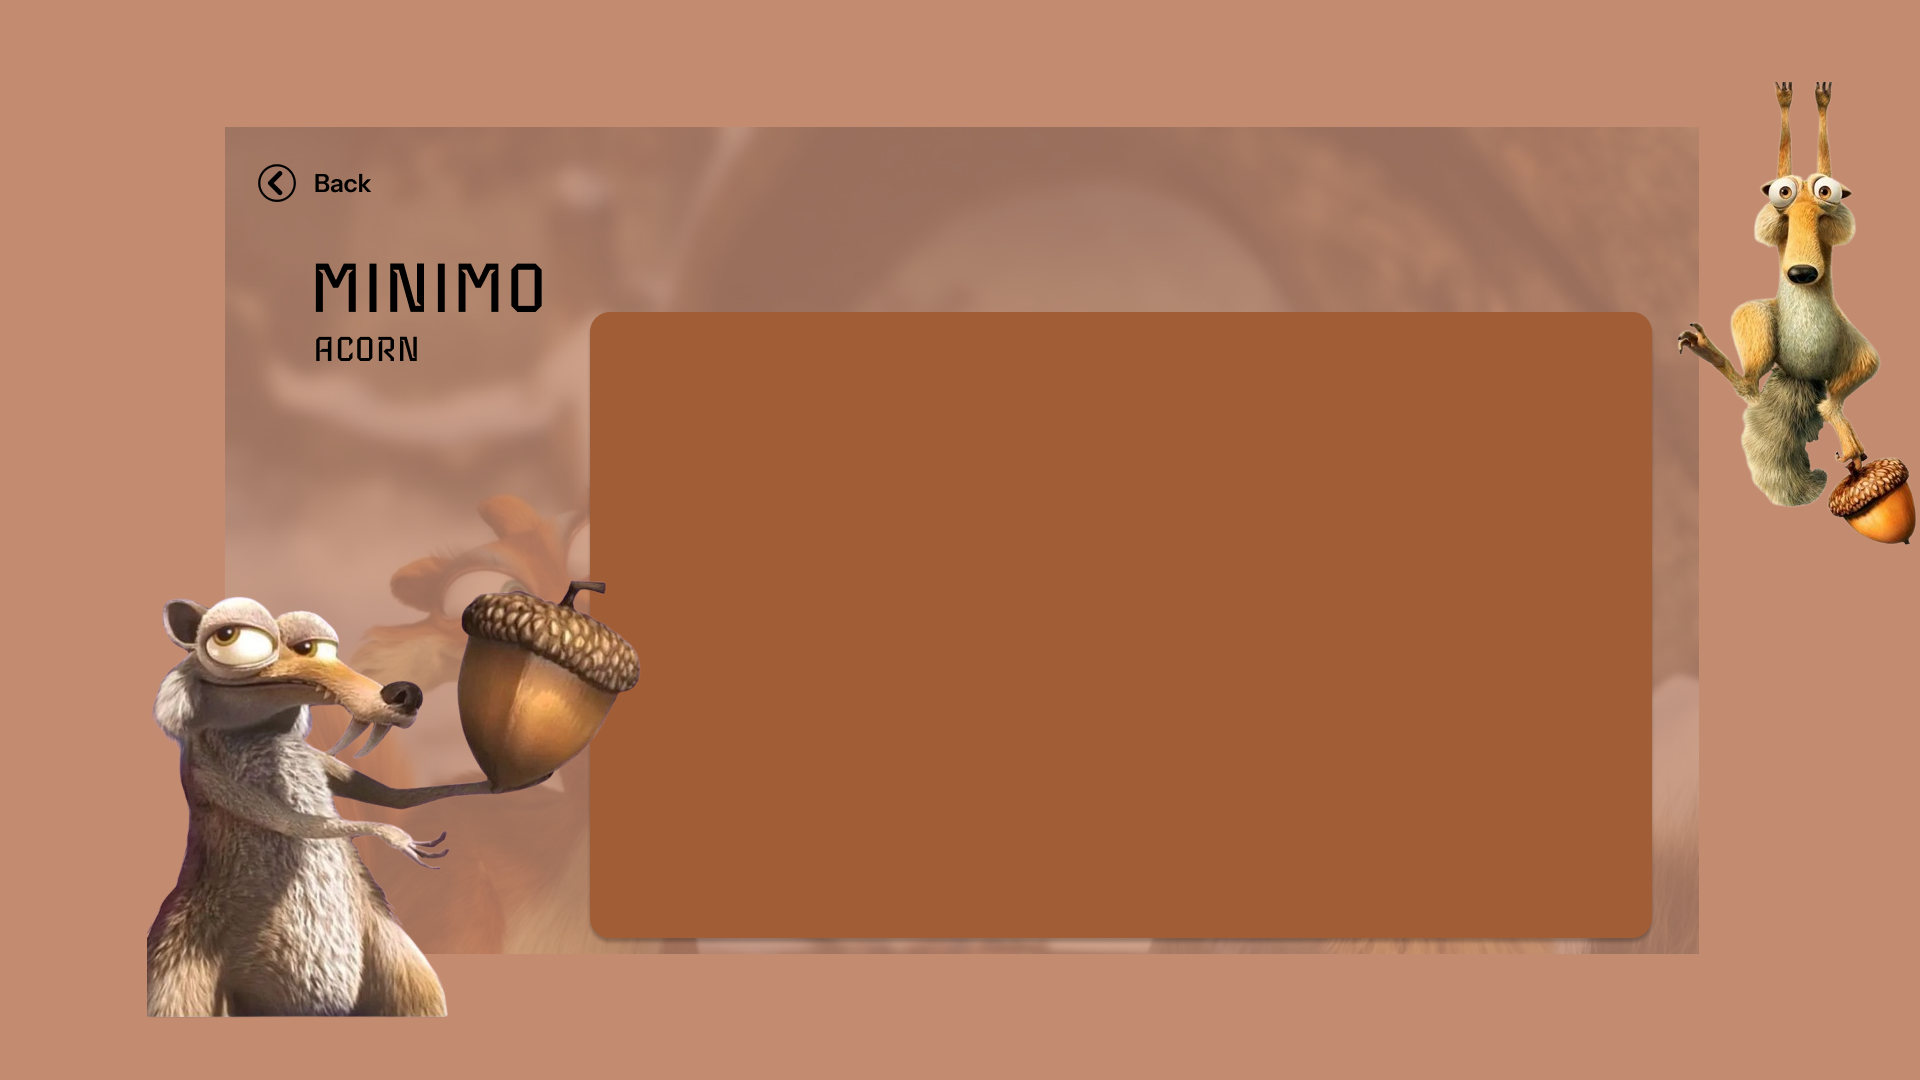
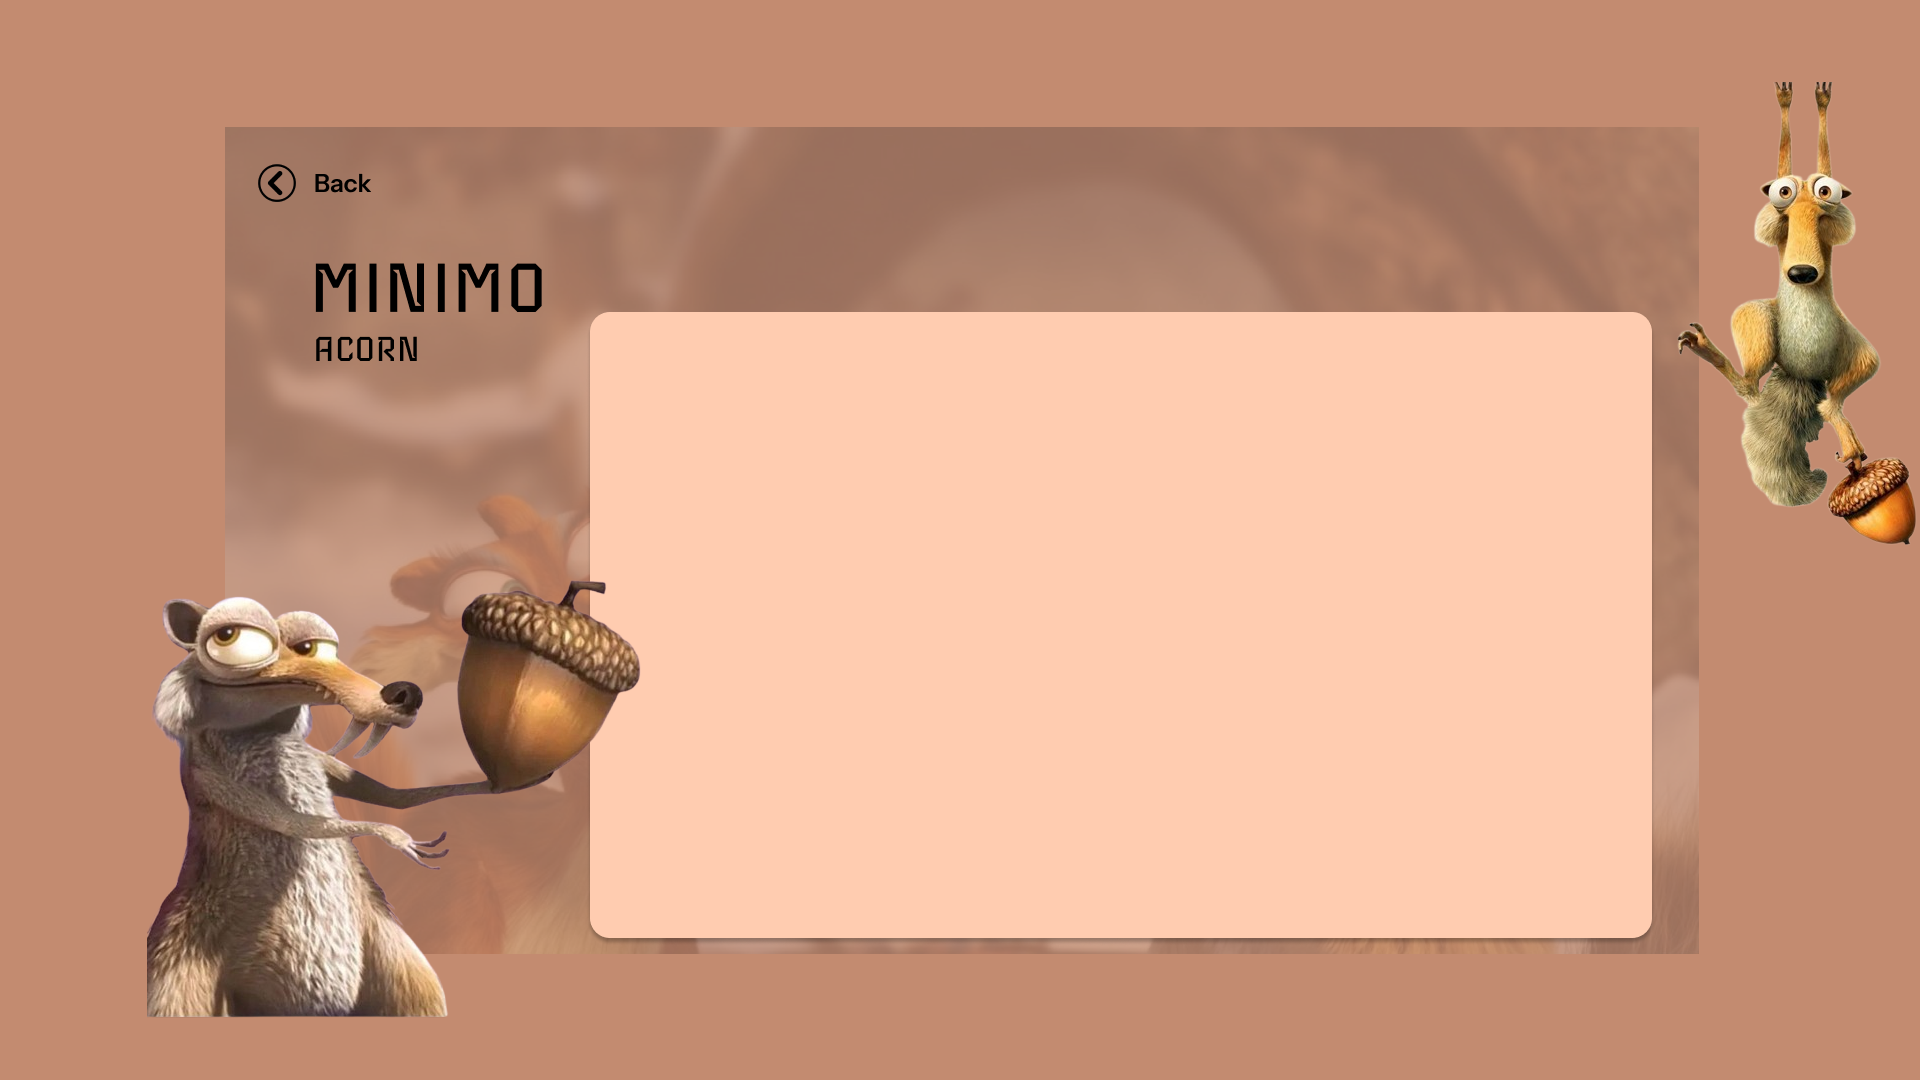
some UI changes

diff --git a/backend/server.js b/backend/server.js
@@ -13,6 +13,8 @@ const axios = require("axios");
 const app = express();
 app.use(cors());
 app.use(express.json());
+app.use(express.urlencoded({ extended: true }));
+app.use('/uploads', express.static('uploads'));
 
 //////base URL for banana API//////
 const MINIMO_API = "http://marcconrad.com/uob/";
@@ -55,29 +57,44 @@ const upload = multer({ storage });
 //////Register API//////
 
 app.post("/api/register", upload.single("avatar"), async (req, res) => {
-  console.log("REQ.BODY:", req.body);
-  console.log("REQ.FILE:", req.file);
+    const { username, password } = req.body;
+    const avatar = req.file ? req.file.filename : null;
 
-  const { username, password } = req.body;
+    await db.query(
+        "INSERT INTO users (username, password, avatar) VALUES (?, ?, ?)",
+        [username, password, avatar]
+    );
 
-  if (!req.file) {
-    return res.status(400).json({ error: "Avatar image required" });
-  }
-
-  const avatarPath = "/uploads/" + req.file.filename;
-
-  try {
-    const hashedPassword = await bcrypt.hash(password, 10);
-
-    const sql = "INSERT INTO users (username, password_hash, avatar) VALUES (?, ?, ?)";
-    await db.execute(sql, [username, hashedPassword, avatarPath]);
-
-    res.status(200).json({ message: "Registration successful" });
-  } catch (err) {
-    console.log("DB ERROR:", err);
-    res.status(500).json({ error: err.message }); // show real error
-  }
+    res.json({ message: "User registered", avatar });
 });
+
+
+// app.post("/api/register", upload.single("avatar"), async (req, res) => {
+//   console.log("REQ.BODY:", req.body);
+//   console.log("REQ.FILE:", req.file);
+
+//   const { username, password } = req.body;
+
+//   if (!req.file) {
+//     return res.status(400).json({ error: "Avatar image required" });
+//   }
+
+//   const avatarPath = "/uploads/" + req.file.filename;
+
+//   try {
+//     const hashedPassword = await bcrypt.hash(password, 10);
+
+//     const sql = "INSERT INTO users (username, password_hash, avatar) VALUES (?, ?, ?)";
+//     await db.execute(sql, [username, hashedPassword, avatarPath]);
+
+//     res.status(200).json({ message: "Registration successful" });
+//   } catch (err) {
+//     console.log("DB ERROR:", err);
+//     res.status(500).json({ error: err.message }); // show real error
+//   }
+// });
+
+
 
 // app.post("/api/register", async (req, res) => {
 //   const { username, password } = req.body;
@@ -98,23 +115,59 @@ app.post("/api/register", upload.single("avatar"), async (req, res) => {
 // });
 
 
-//////Login API//////
+//////Login API (Fixed)//////
 app.post("/api/login", (req, res) => {
-
   const { username, password } = req.body;
-  
+
   db.query("SELECT * FROM users WHERE username = ?", [username], async (err, results) => {
-    if (err || results.length === 0) return res.status(400).json({ error: "Invalid username" });
+    if (err || results.length === 0)
+      return res.status(400).json({ error: "Invalid username" });
 
     const user = results[0];
     const match = await bcrypt.compare(password, user.password_hash);
+    if (!match)
+      return res.status(400).json({ error: "Incorrect password" });
 
-    if (!match) return res.status(400).json({ error: "Incorrect password" });
+    // Use correct column name: avatar
+    // The DB already contains "/uploads/filename.png"
+    const avatarPath = user.avatar; 
 
-    res.json({ message: "Login successful" });
+    // Build full accessible URL
+    const profilePicUrl = avatarPath
+      ? `http://localhost:3000${avatarPath}`
+      : null;
+
+    res.json({
+      message: "Login successful",
+      user: {
+        id: user.id,
+        username: user.username,
+        profilePic: profilePicUrl
+      }
+    });
   });
-
 });
+
+
+
+
+//////Login API//////
+// app.post("/api/login", (req, res) => {
+
+//   const { username, password } = req.body;
+  
+//   db.query("SELECT * FROM users WHERE username = ?", [username], async (err, results) => {
+//     if (err || results.length === 0) return res.status(400).json({ error: "Invalid username" });
+
+//     const user = results[0];
+//     const match = await bcrypt.compare(password, user.password_hash);
+
+//     if (!match) return res.status(400).json({ error: "Incorrect password" });
+
+//     res.json({ message: "Login successful" });
+//   });
+
+// });
 
 // app.get("/api/banana", async (req, res) => {
   

diff --git a/frontend/index.html b/frontend/index.html
@@ -115,7 +115,7 @@
         <button id="btnBackTh1" class="btn btnBackInTh">Back</button>
         <!-- <button id="btnTimeTh1" class="btn" style="display: none;">Time</button> -->
 
-        <img id="bananaImg" src=""/>
+        <!-- <img id="bananaImg" src=""/> -->
         <div id="bananaLoader" class="loader"></div>
         <!-- <div id="ansDiv">
           <span id="ansTopic">Answer :</span>
@@ -123,9 +123,9 @@
           <span id="result">Find Banana!</span>
           <button id="playAgain" style="display: none;">Play Again?</button>
         </div> -->
-        <div id="ansDiv">
-          <span id="ansTopic">Answer :</span>
-          <div id="divAnsBtn">
+        <div id="ansDiv1" class="ansDiv">
+          <span id="ansTopic1" class="ansTopic">Answer :</span>
+          <div id="divAnsBtn1" class="divAnsBtn">
             <button id="ans0" class="ansBtn">0</button>
             <button id="ans1" class="ansBtn">1</button>
             <button id="ans2" class="ansBtn">2</button>
@@ -137,14 +137,32 @@
             <button id="ans8" class="ansBtn">8</button>
             <button id="ans9" class="ansBtn">9</button>
           </div>
-          <span id="result">Find Banana!</span>
-          <button id="playAgain" style="display: none;">Play Again?</button>
+          <span id="result1" class="result">Find Banana!</span>
+          <button id="playAgain1" style="display: none;" class="playAgain">Play Again?</button>
         </div>
     </div>
 
     <div id="themePage2" class="screen" style="display: none;">
         <button id="btnBackTh2" class="btn btnBackInTh">Back</button>
-        <!-- <button id="btnTimeTh2" class="btn">Time</button> -->
+
+        <div id="bananaLoader" class="loader"></div>
+        <div id="ansDiv2" class="ansDiv">
+          <span id="ansTopic2" class="ansTopic">Answer :</span>
+          <div id="divAnsBtn2" class="divAnsBtn">
+            <button id="ans02" class="ansBtn">0</button>
+            <button id="ans12" class="ansBtn">1</button>
+            <button id="ans22" class="ansBtn">2</button>
+            <button id="ans32" class="ansBtn">3</button>
+            <button id="ans42" class="ansBtn">4</button>
+            <button id="ans52" class="ansBtn">5</button>
+            <button id="ans62" class="ansBtn">6</button>
+            <button id="ans72" class="ansBtn">7</button>
+            <button id="ans82" class="ansBtn">8</button>
+            <button id="ans92" class="ansBtn">9</button>
+          </div>
+          <span id="result2" class="result">Find Banana!</span>
+          <button id="playAgain2" style="display: none;" class="playAgain">Play Again?</button>
+        </div>
     </div>
 
     <div id="themePage3" class="screen" style="display: none;">

diff --git a/frontend/assets/css/style.css b/frontend/assets/css/style.css
@@ -713,7 +713,7 @@ p {
 
 /* ////////////////////////////////////////// */
 
-#ansDiv{
+.ansDiv{
   background-color: #F8DD5A;
   width: 45%;
   height: 10%;
@@ -727,7 +727,7 @@ p {
   align-items: center;
 }
 
-#bananaInput{
+.bananaInput{
   width: 10%;
   height: 50%;
   position: absolute;
@@ -738,14 +738,14 @@ p {
   color: #d2c700;
 }
 
-#ansTopic{
+.ansTopic{
   position: absolute;
   top: 28%;
   left: 5%;
   font-size: 1.5vw;
 }
 
-#result{
+.result{
   position: absolute;
   top: 30%;
   left: 71%;
@@ -758,7 +758,7 @@ p {
   height: 100vh;
 }
 
-#playAgain{
+.playAgain{
   background-color: #fff700;
   position: absolute;
   left: 87%;
@@ -770,13 +770,13 @@ p {
   font-size: 1vw;
 }
 
-#playAgain:hover{
+.playAgain:hover{
   background-color: #fff700;
   transform: scale(1.05);
   box-shadow: 0 0 10px rgba(255,255,255,0.9);
 }
 
-#divAnsBtn button{
+.divAnsBtn button{
   position: relative;
   width: 27px;
   height: 27px;
@@ -788,9 +788,18 @@ p {
 box-shadow: rgba(60, 64, 67, 0.3) 0px 1px 2px 0px, rgba(60, 64, 67, 0.15) 0px 2px 6px 2px;
 }
 
-#divAnsBtn button:hover{
+.divAnsBtn button:hover{
 box-shadow: rgba(0, 0, 0, 0.25) 0px 14px 28px, rgba(0, 0, 0, 0.22) 0px 10px 10px;
 }
+
+#ansDiv2{
+  background-color: #FF8700;
+}
+
+#divAnsBtn2 button{
+  background-color: #ffca8d;
+}
+
 
 /* //////////////////////////////////// */
 

diff --git a/frontend/assets/js/controller.js b/frontend/assets/js/controller.js
@@ -75,14 +75,23 @@ EventBus.on("NAVIGATE_REG", () => {
 EventBus.on("NAVIGATE_THEME_MENU", (username) => {
   hideAll();
   themePage.style.display = 'grid';
+  const savedImage = localStorage.getItem("profileImage");
+if (savedImage) {
+    document.querySelectorAll(".userAvatar").forEach(img => {
+        img.src = savedImage;
+    });
+}
+
   document.getElementById("showUsername").textContent = username;
   document.body.style.backgroundImage = 'url("assets/images/login_bg.png")';
+  loadUserInfo();
 });
 
 EventBus.on("NAVIGATE_THEME_1", () => {
   hideAll();
   themePage1.style.display = 'block';
   document.body.style.backgroundImage = 'url("assets/images/theme_minimo_bg.png")';
+  loadUserInfo();
 });
 
 EventBus.on("NAVIGATE_THEME_2", () => {
@@ -115,3 +124,13 @@ EventBus.on("NAVIGATE_THEME_5", () => {
 //   document.getElementById("showUsername").textContent = username;
 //   document.body.style.backgroundImage = 'url("assets/images/login_bg.png")';
 // });
+
+function loadUserInfo() {
+    const savedImage = localStorage.getItem("profileImage");
+    if (savedImage) {
+        document.querySelectorAll(".avatar").forEach(img => {
+            img.src = savedImage;
+        });
+    }
+}
+

diff --git a/frontend/assets/js/script.js b/frontend/assets/js/script.js
@@ -104,6 +104,16 @@ login.addEventListener("click", async () => {
       errorMsg.textContent = "";
       showName(username);
       // clearFields();
+      const userImage = data.image; // returned from backend
+      localStorage.setItem("profileImage", userImage);
+      localStorage.setItem("username", data.username);
+      const savedImage = localStorage.getItem("profileImage");
+if (savedImage) {
+    document.querySelectorAll(".userAvatar").forEach(img => {
+        img.src = savedImage;
+    });
+}
+
     } else {
       errorMsg.textContent = data.error;
     }
